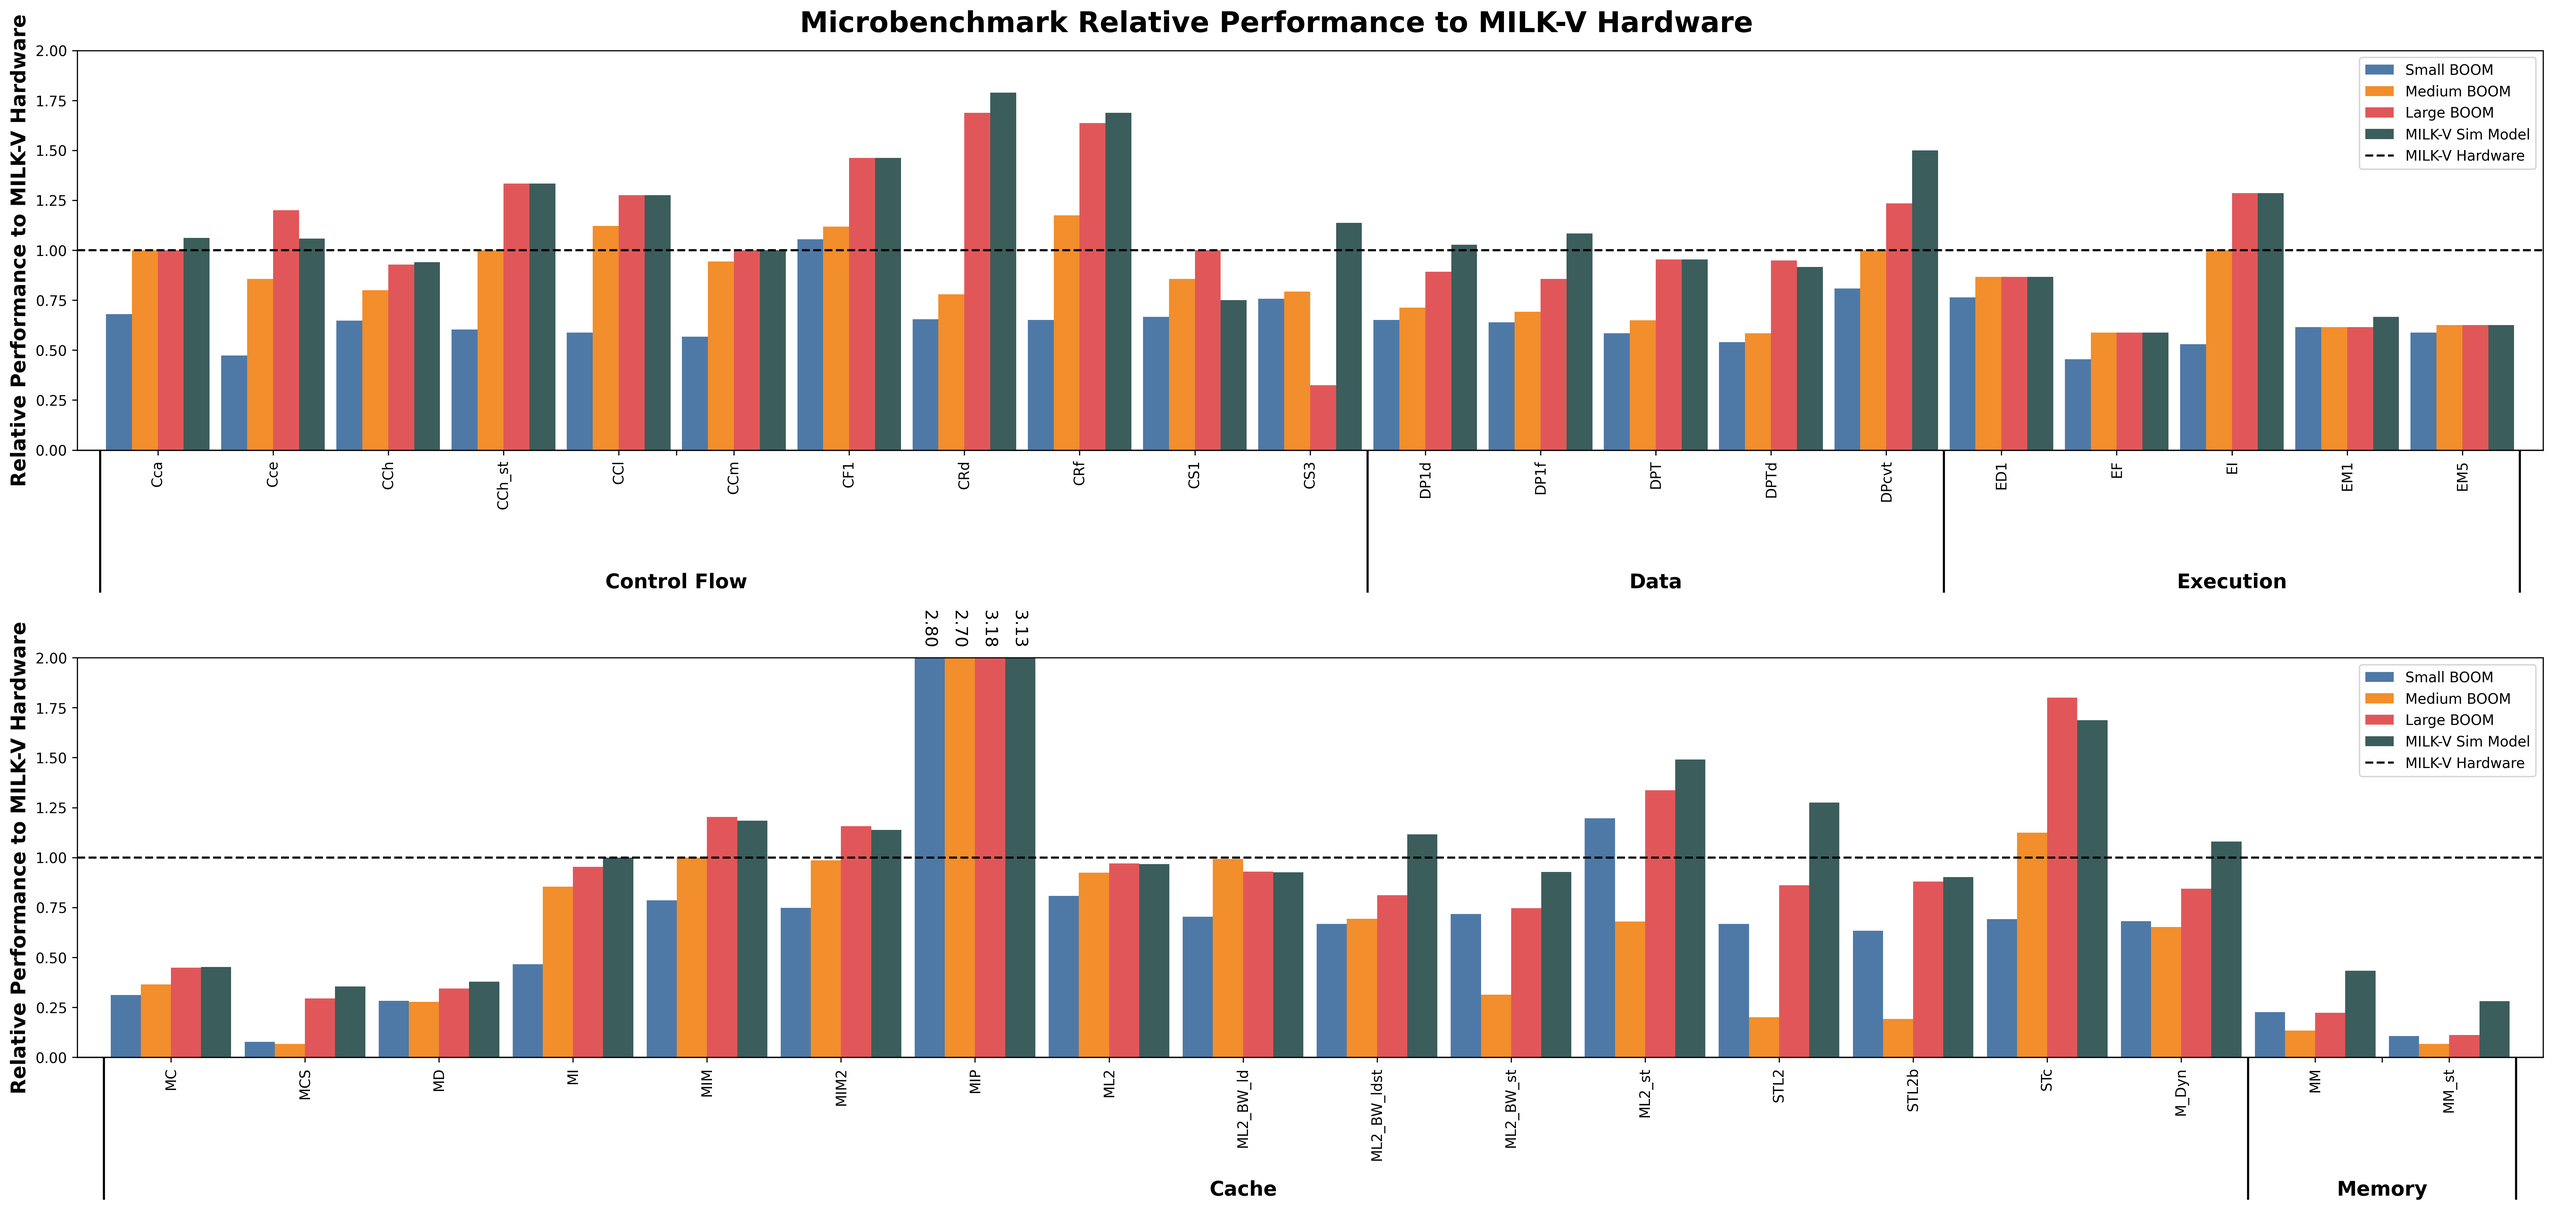
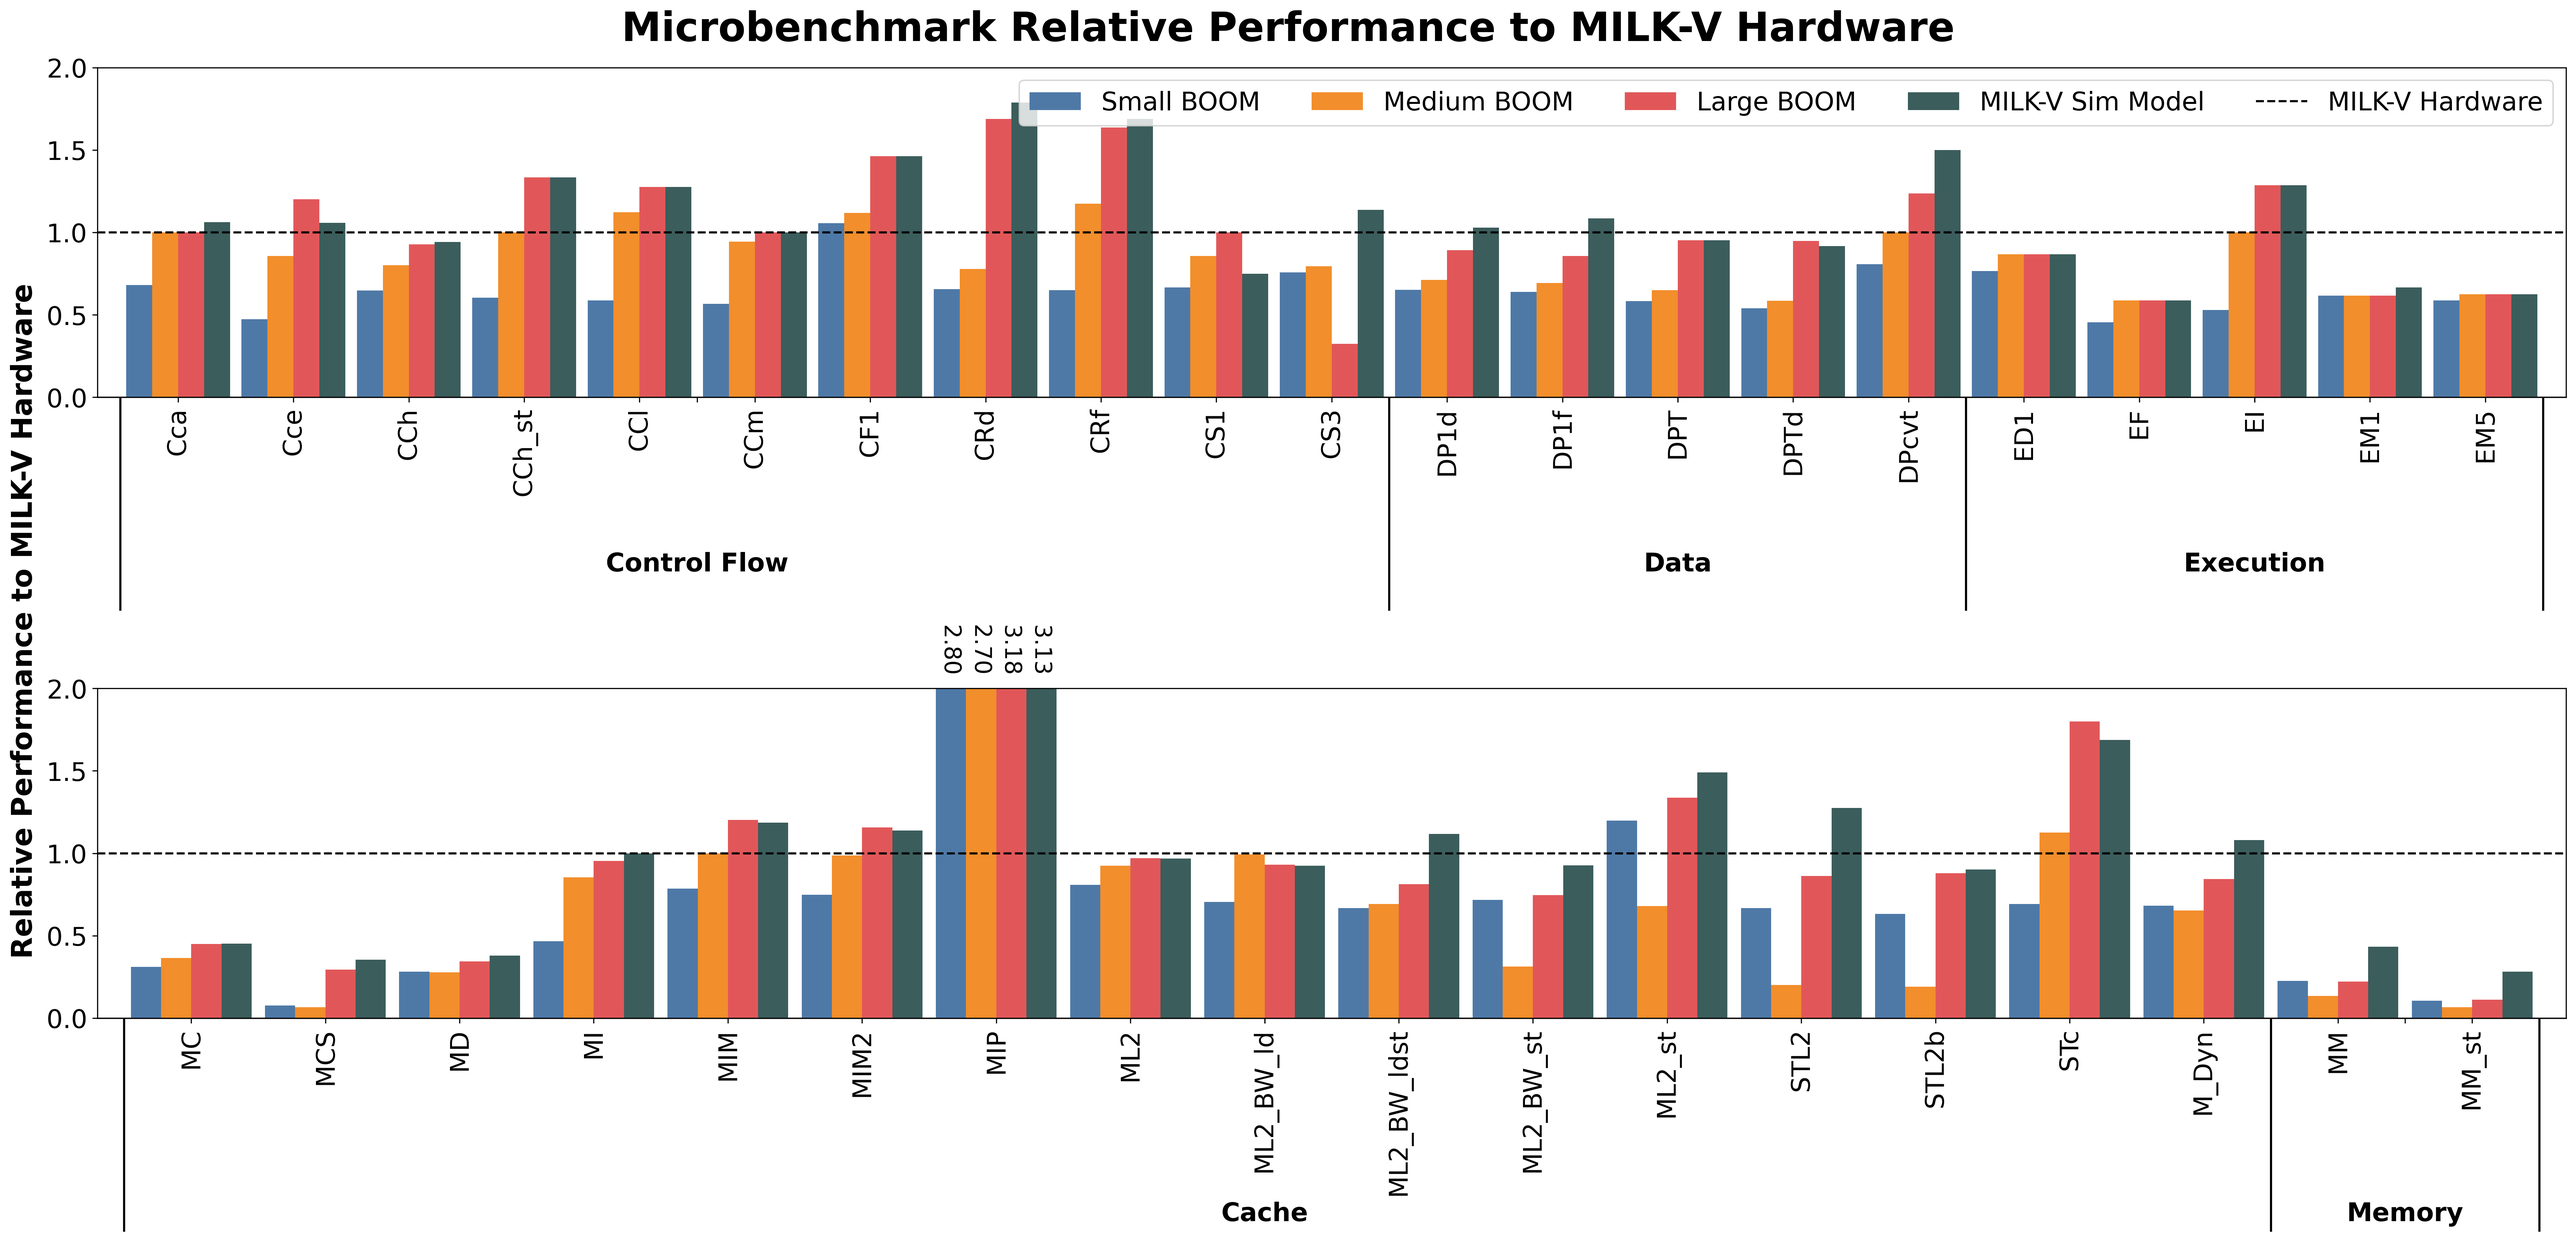
Larger fonts for microbench plots

diff --git a/microbench/microbench.py b/microbench/microbench.py
@@ -46,26 +46,32 @@ def create_split_plot(df, color_dict, configs, normalized_key, plot_cols, y_labe
 
     color_dict_filtered = {key: color_dict[key] for key in plot_cols}
 
-    df_normalized_top = df_normalized[(df_normalized['Category'] == '\n\n\n\n\nControl Flow') | (df_normalized['Category'] == '\n\n\n\n\nData') | (df_normalized['Category'] == '\n\n\n\n\nExecution')]
-    df_normalized_bottom = df_normalized[(df_normalized['Category'] == '\n\n\n\n\nCache') | (df_normalized['Category'] == '\n\n\n\n\nMemory')]
+    df_normalized_top = df_normalized[(df_normalized['Category'] == '\n\n\n\n\n\nControl Flow') | (df_normalized['Category'] == '\n\n\n\n\n\nData') | (df_normalized['Category'] == '\n\n\n\n\n\nExecution')]
+    df_normalized_bottom = df_normalized[(df_normalized['Category'] == '\n\n\n\n\n\nCache') | (df_normalized['Category'] == '\n\n\n\n\n\nMemory')]
 
-    fig, axes = plt.subplots(2, 1, figsize=(25, 12))
-    fig.suptitle('Microbenchmark Relative Performance to ' + normalized_key, fontsize=20, fontweight='bold')
+    df_normalized_top['Category'] = df['Category'].str.replace(r'^\n', '', n=1, regex=True)
+
+    fig, axes = plt.subplots(2, 1, figsize=(25, 12), sharey=True, constrained_layout=True)
+    fig.suptitle('Microbenchmark Relative Performance to ' + normalized_key, fontsize=28, fontweight='bold')
+    fig.supylabel(y_label, va='center', rotation='vertical', fontsize=20, fontweight='bold')
 
     ax1 = df_normalized_top.plot.bar(x='Benchmark', y=plot_cols, color=color_dict_filtered, width=0.9, ax=axes[0])
     ax1.axhline(y=1.0, color='k', linestyle='--', label=normalized_key)
 
-    ax1.legend()
-
     handles, labels = ax1.get_legend_handles_labels()
     reordered_handles = handles[1:] + [handles[0]]
     reordered_labels = labels[1:] + [labels[0]]
-    ax1.legend(reordered_handles, reordered_labels)
+    ax1.legend(reordered_handles, reordered_labels, fontsize=18, ncol=len(reordered_labels))
+
+    #if ax1.get_legend():
+    #    ax1.get_legend().remove()
 
     ylim_cutoff = 2.0
 
     ax1.set(xlabel=None)
     ax1.set_ylim(0, ylim_cutoff)
+    ax1.tick_params(axis='x', labelsize=18)
+    ax1.tick_params(axis='y', labelsize=18)
 
     for container in ax1.containers:
         for bar in container.patches:
@@ -75,35 +81,29 @@ def create_split_plot(df, color_dict, configs, normalized_key, plot_cols, y_labe
                         ylim_cutoff,
                         f'{height:.2f}  ',
                         ha='center', va='bottom',
-                        color='black', fontsize=12, rotation=270)
+                        color='black', fontsize=16, rotation=270)
 
     sec = ax1.secondary_xaxis(location=0)
     sec.set_xticks([4.5, 13, 18], labels=df_normalized_top['Category'].unique())
 
     sec2 = ax1.secondary_xaxis(location=0)
     sec2.set_xticks([-0.5, 10.5, 15.5, 20.5], labels=[])
-    sec2.tick_params('x', length=100, width=1.5)
+    sec2.tick_params('x', length=150, width=1.5)
 
     for label in sec.get_xticklabels():
-        label.set_fontsize(14)
+        label.set_fontsize(18)
         label.set_fontweight('bold')
-
-    ax1.set_ylabel(y_label, fontsize=14, fontweight='bold')
 
     ax2 = df_normalized_bottom.plot.bar(x='Benchmark', y=plot_cols, color=color_dict_filtered, width=0.9, ax=axes[1])
     ax2.axhline(y=1.0, color='k', linestyle='--', label=normalized_key)
 
-    ax2.legend()
-
-    handles, labels = ax2.get_legend_handles_labels()
-    reordered_handles = handles[1:] + [handles[0]]
-    reordered_labels = labels[1:] + [labels[0]]
-    ax2.legend(reordered_handles, reordered_labels)
-
-    ylim_cutoff = 2.0
+    if ax2.get_legend():
+        ax2.get_legend().remove()
 
     ax2.set(xlabel=None)
     ax2.set_ylim(0, ylim_cutoff)
+    ax2.tick_params(axis='x', labelsize=18)
+    ax2.tick_params(axis='y', labelsize=18)
 
     for container in ax2.containers:
         for bar in container.patches:
@@ -113,22 +113,19 @@ def create_split_plot(df, color_dict, configs, normalized_key, plot_cols, y_labe
                         ylim_cutoff,
                         f'{height:.2f}  ',
                         ha='center', va='bottom',
-                        color='black', fontsize=12, rotation=270)
+                        color='black', fontsize=16, rotation=270)
 
+    ax2.legend
     sec3 = ax2.secondary_xaxis(location=0)
     sec3.set_xticks([8, 16.5], labels=df_normalized_bottom['Category'].unique())
 
     sec4 = ax2.secondary_xaxis(location=0)
     sec4.set_xticks([-0.5, 15.5, 17.5], labels=[])
-    sec4.tick_params('x', length=100, width=1.5)
+    sec4.tick_params('x', length=150, width=1.5)
 
     for label in sec3.get_xticklabels():
-        label.set_fontsize(14)
+        label.set_fontsize(18)
         label.set_fontweight('bold')
-
-    ax2.set_ylabel(y_label, fontsize=14, fontweight='bold')
-
-    plt.tight_layout()
 
     plt.savefig(fig_name, bbox_inches='tight')
     plt.show()
@@ -219,14 +216,14 @@ def main():
     df = pd.read_csv('microbench.csv')
     df = df[df['Benchmark'] != 'CRm']
 
-    df['Category'] = '\n\n\n\n\n' + df['Category'].astype(str)
+    df['Category'] = '\n\n\n\n\n\n' + df['Category'].astype(str)
 
     configs = ['Small BOOM', 'Medium BOOM', 'Large BOOM', 'Banana Pi Sim Model', 'MILK-V Sim Model', 'Banana Pi Hardware', 'MILK-V Hardware']
 
     plot_cols =  ['Small BOOM', 'Medium BOOM', 'Large BOOM', 'Banana Pi Sim Model', 'MILK-V Sim Model', 'Banana Pi Hardware'] 
     create_plot(df, color_dict, configs, 'MILK-V Hardware', plot_cols, 'Relative Performance to MILK-V Hardware', 'Micro-All.png')
 
-    plot_cols = ['Small BOOM', 'Medium BOOM', 'Large BOOM', 'Banana Pi Sim Model']
+    plot_cols = ['Banana Pi Sim Model']
     create_plot(df, color_dict, configs, 'Banana Pi Hardware', plot_cols, 'Relative Performance to Banana Pi Hardware', 'Micro-BPi.png')
 
     plot_cols = ['Small BOOM', 'Medium BOOM', 'Large BOOM', 'MILK-V Sim Model']
@@ -236,7 +233,7 @@ def main():
     plot_cols =  ['Small BOOM', 'Medium BOOM', 'Large BOOM', 'Banana Pi Sim Model', 'MILK-V Sim Model', 'Banana Pi Hardware'] 
     create_split_plot(df, color_dict, configs, 'MILK-V Hardware', plot_cols, 'Relative Performance to MILK-V Hardware', 'Micro-All-Split.png')
 
-    plot_cols = ['Small BOOM', 'Medium BOOM', 'Large BOOM', 'Banana Pi Sim Model']
+    plot_cols = ['Banana Pi Sim Model']
     create_split_plot(df, color_dict, configs, 'Banana Pi Hardware', plot_cols, 'Relative Performance to Banana Pi Hardware', 'Micro-BPi-Split.png')
 
     plot_cols = ['Small BOOM', 'Medium BOOM', 'Large BOOM', 'MILK-V Sim Model']
@@ -245,7 +242,7 @@ def main():
     plot_cols =  ['Small BOOM', 'Medium BOOM', 'Large BOOM', 'Banana Pi Sim Model', 'MILK-V Sim Model', 'Banana Pi Hardware']  
     create_heatmap(df, configs, 'MILK-V Hardware', plot_cols, 'Micro-MILK-V-Heatmap.png')
 
-    plot_cols = ['Small BOOM', 'Medium BOOM', 'Large BOOM', 'Banana Pi Sim Model']
+    plot_cols = ['Banana Pi Sim Model']
     create_heatmap(df, configs, 'Banana Pi Hardware', plot_cols, 'Micro-BPi-Heatmap.png')
 
     plot_cols = ['Small BOOM', 'Medium BOOM', 'Large BOOM', 'MILK-V Sim Model']
